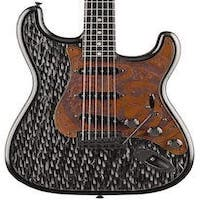
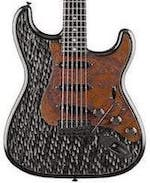
Change Image Sizes

diff --git a/client/src/App.css b/client/src/App.css
@@ -81,8 +81,6 @@ select {
 
 /* Styling for product images */
 .img {
-  width: 150px;
-  height: 180px;
   margin: 0 30% 10% 30%;
 }
 /* Product title */
@@ -300,8 +298,8 @@ footer {
     margin-left: 10%;
   }
   .img {
-    width: 80px;
-    height: 95px;
+    width: 82px;
+    height: 100px;
     margin: 0 20% 2% 40%;
   }
   .form-div{
@@ -366,8 +364,6 @@ footer {
     text-align: center;
   }
   .img {
-    width: 70px;
-    height: 85px;
     margin-left: 35%;
   }
   .product-box {
